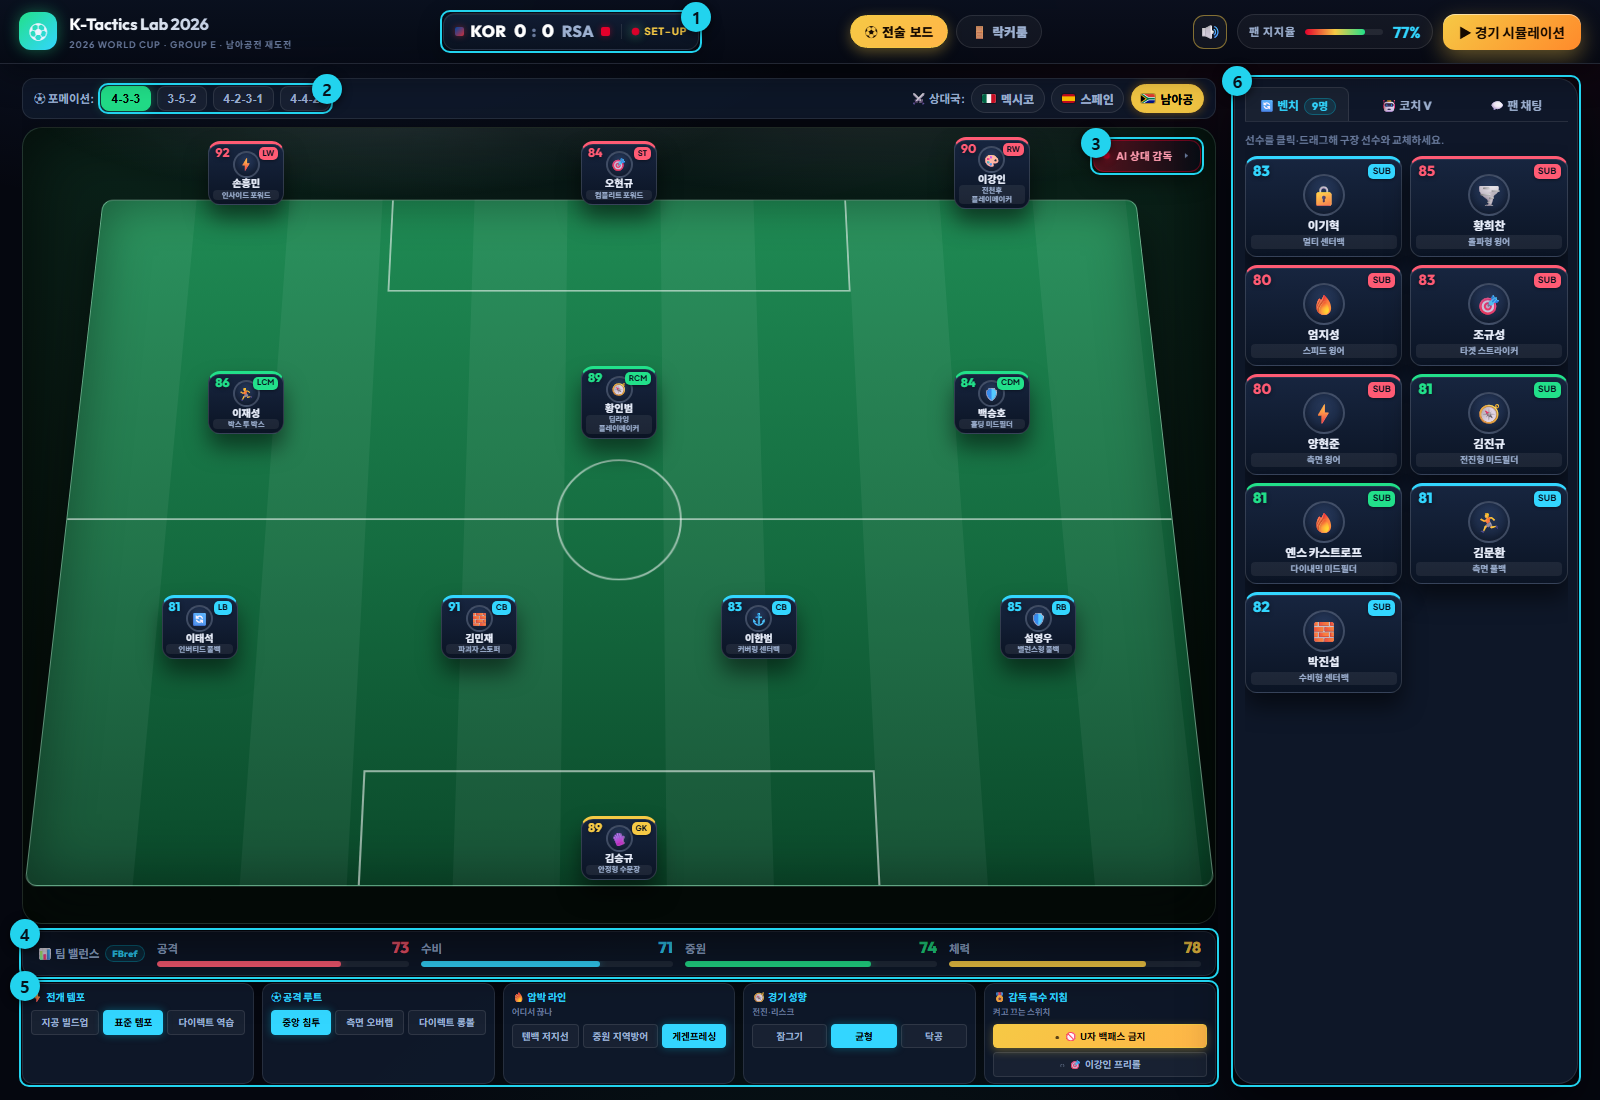
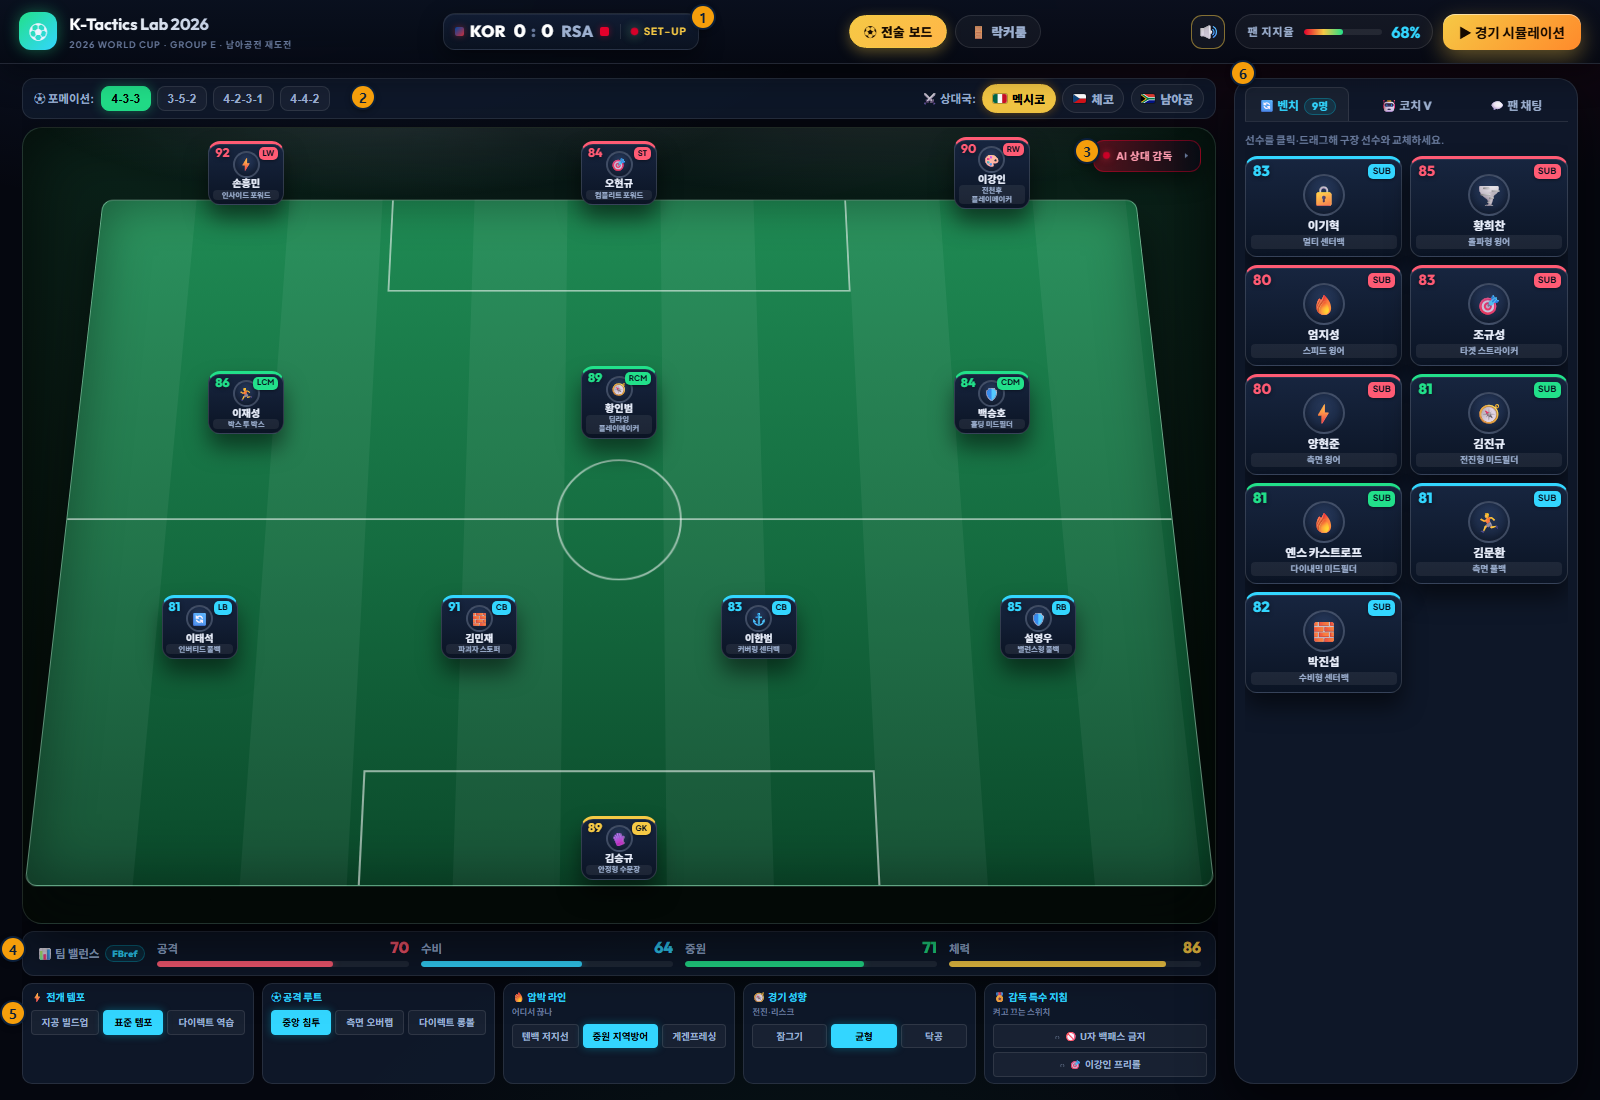
docs(proposal): match brief and reshoot Spain view
Checked the proposal against the competition brief.

The board screenshot was committed on 07-24, before the opponent list
was corrected, so it still showed 스페인 while 3.1 directly beneath it said
체코. Reshot from the current build with the scenario auto-started (the
onboarding modal covers the board) and the six region badges the caption
points at, so the figure and the text finally agree.

"본 서비스는 PC 환경 전용으로 설계했습니다" sat in the sixth line of a document whose
first judging round is a public vote, and the rule says the service must
run in major browsers. index.css carries seven breakpoints and a
purpose-built notice under 768px, so the claim understated the app while
arguing against a requirement. Dropped; the recommended environment line
stays.

The brief also requires that a judge verify external APIs without a key.
5.7 said the proxy hides the key, which implies it but never states it.
Now stated, because an unverifiable feature can be excluded from
scoring.

Per request: section 7 starts on its own page, its APA note is gone, and
English glosses are out of the headings. Also 압박 강도 → 압박 라인, the label
the dial actually carries on screen.

Filed as B″: the app has no 3-4-3, which is the formation the brief's
own opening names and the one Korea actually played against South
Africa.

diff --git a/PROPOSAL.md b/PROPOSAL.md
@@ -3,11 +3,11 @@
 **서비스명: K-Tactics Lab 2026**
 **부제: 2026 월드컵 대한민국 국가대표팀 전술 솔루션 및 인터랙티브 감독 시뮬레이터**
 **공식 라이브 데모 URL (Live Demo):** https://k-tactics-lab-2026.vercel.app
-**권장 환경:** 데스크톱 Chrome 브라우저, 가로 1280px 이상 (본 서비스는 PC 환경 전용으로 설계했습니다)
+**권장 환경:** 데스크톱 Chrome 브라우저, 가로 1280px 이상
 
 ---
 
-## 1. 서비스 개요 (Service Overview)
+## 1. 서비스 개요
 
 ### 1.1 기획 배경 및 문제 정의 (언론 및 전술 분석 데이터 기반)
 
@@ -35,26 +35,26 @@
 
 ---
 
-## 2. "감독 경험" 설계 의도 (Design Intent of "Manager Experience")
+## 2. "감독 경험" 설계 의도
 
 ### 2.1 설계 원칙: 개입 지점을 둘로 좁힌다
 
 목표는 **"전술적 선택과 스쿼드 배치가 팀 밸런스와 대중 여론에 어떤 상충을 만드는가"** 를 감독석에서 겪게 하는 것입니다. 그래서 경기를 분 단위로 쪼개지 않았습니다. 감독이 개입하는 지점은 **킥오프 전 한 번, 하프타임 한 번** 뿐입니다. 결정이 잘게 흩어지면 무엇이 승부를 갈랐는지 알 수 없고, 되돌리고 싶은 지점도 특정되지 않기 때문입니다. 아래 3대 국면은 그 두 순간에 무엇을 결정할 수 있는지를 나눈 것입니다.
 
-### 2.2 3대 경기 국면(Game Phases)별 전술 지휘 체험
+### 2.2 3대 경기 국면별 전술 지휘 체험
 
-사용자는 전술판 위에서 언론 보도를 통해 도출된 대표팀의 핵심 전술 쟁점을 3대 경기 국면으로 나누어, **4대 전술 다이얼(전개 템포·공격 루트·압박 강도·경기 성향), 감독 특수 지침 토글 2종, 하프타임 교체 예약** 으로 지휘합니다.
+사용자는 전술판 위에서 언론 보도를 통해 도출된 대표팀의 핵심 전술 쟁점을 3대 경기 국면으로 나누어, **4대 전술 다이얼(전개 템포·공격 루트·압박 라인·경기 성향), 감독 특수 지침 토글 2종, 하프타임 교체 예약** 으로 지휘합니다.
 
 1. **국면 ①: 공격 전개 및 빌드업 지침 (U자형 빌드업 타파)**
    - **설계 의도:** '공격 루트' 다이얼(하프스페이스 중앙 침투 / 측면 오버랩 / 다이렉트 롱볼)로 공격 경로를 정하고, 별도의 **'감독 특수 지침' 토글 2종(🚫 U자 백패스 금지, 🎯 이강인 프리롤)** 으로 시그니처 개혁을 켜고 끕니다. 백패스 금지와 하프스페이스 침투는 공격 지표와 여론을 함께 올리지만, 이강인 프리롤은 화력과 뒷공간 리스크를 같이 얻습니다. '전개 템포'(지공 빌드업 / 표준 / 다이렉트 역습)로 공격 전개 속도까지 함께 조율합니다.
 2. **국면 ②: 측면 수비 및 경기 운영 밸런스 (윙백 뒷공간 차단)**
-   - **설계 의도:** '압박 강도'(텐백 저지선 / 중원 지역방어 / 게겐프레싱)와 '경기 성향'(잠그기 / 균형 / 닥공) 다이얼로 수비 안정과 위험 감수의 상충을 조율합니다. 게겐프레싱은 수비 +7과 여론 +6을 얻는 대신 체력 −8을 치르고, 텐백은 상대 기대 득점을 25% 깎는 대신 공격 −8과 여론 −12를 함께 치릅니다. 어느 쪽도 한쪽만 움직이지 않습니다.
+   - **설계 의도:** '압박 라인'(텐백 저지선 / 중원 지역방어 / 게겐프레싱)와 '경기 성향'(잠그기 / 균형 / 닥공) 다이얼로 수비 안정과 위험 감수의 상충을 조율합니다. 게겐프레싱은 수비 +7과 여론 +6을 얻는 대신 체력 −8을 치르고, 텐백은 상대 기대 득점을 25% 깎는 대신 공격 −8과 여론 −12를 함께 치릅니다. 어느 쪽도 한쪽만 움직이지 않습니다.
 3. **국면 ③: 후반 플랜 B 및 위기관리 (스타 개인 기량 의존 탈피)**
    - **설계 의도:** 전반이 끝나야 열리는 국면입니다. 방전된 선수를 눈으로 확인한 뒤에야 **[⏱ 60분 조커 투입]** 과 **[⏱ 75분 닥공 전환]** 을 예약할 수 있고, 예약한 교체는 후반 평균 체력을 실제로 끌어올려 기대 득점에 반영됩니다(§4.4). 표기된 분(分)은 중계 연출이며 후반은 한 번에 표집합니다. 스타 한 명의 기량에 기대는 대신 플랜 B를 미리 설계해 두는 자리이고, **경기 중** 교체가 열리는 국면은 여기뿐입니다.
 
 ---
 
-## 3. 페이지 구성 및 UI 레이아웃 (Page Structure)
+## 3. 페이지 구성 및 UI 레이아웃
 
 전술 설정·피드백·시뮬레이션을 한 화면에 모은 **'매치데이 브로드캐스트 보드'** 단일 레이아웃입니다. 중계 화면의 문법(스코어버그, 선수 카드)을 빌려 **경기장을 화면의 주인공**으로 두고, 보조 정보는 우측 3탭 레일과 접이식 칩으로 밀어냈습니다.
 
@@ -82,9 +82,9 @@
 
 ---
 
-## 4. 핵심 인터랙션 명세 (Core Interaction Specs)
+## 4. 핵심 인터랙션 명세
 
-### 4.1 인터랙션 A: 이원화 스쿼드 배치 및 교체 (Hybrid Squad Builder)
+### 4.1 인터랙션 A: 이원화 스쿼드 배치 및 교체
 
 - **두 갈래 입력, 같은 결과:** 드래그 앤 드롭(HTML5 Drag & Drop API)과 클릭 맞교환(Click-to-Swap)이 동일한 교체 로직 위에 얹혀 있습니다. 클릭 경로는 트랙패드처럼 드래그가 번거로운 장치를 위한 보조이자, 드래그가 중간에 끊겨도 교체가 막히지 않게 하는 안전장치입니다.
 - **두 경로는 화면에서 구분됩니다.** 드래그 중인 카드와 클릭으로 고른 카드가 서로 반대로 표시되어, 지금 어느 방식으로 조작 중인지 보입니다.
@@ -95,7 +95,7 @@
 - **반응:** AI 코치 긴급 경보가 뜨고 여론 지지율이 즉시 깎입니다. 공격 자원을 최후방·골문에 두면 **−25**, 골키퍼를 최전방에 두면 **−30** 이며 두 판정은 별개라, 공격수와 골키퍼를 맞바꾸면 한 번에 **−55** 가 붙습니다. 40% 미만으로 떨어지면 붉은 경고 상태로 전환되고 중계창에 비판 댓글이 올라옵니다.
 - **누적되지 않습니다.** 현재 배치를 볼 때마다 다시 계산하므로 제자리로 되돌리면 그 자리에서 회복됩니다. 판정 기준이 이름이 아니라 포지션 속성이라, 손흥민이 아닌 어느 공격 자원을 내려도 똑같이 걸립니다.
 
-### 4.3 인터랙션 C: 클릭 기반 선수 세부 임무(Role) 설정
+### 4.3 인터랙션 C: 클릭 기반 선수 세부 임무 설정
 
 - **동작:** 카드를 한 번 클릭하면 맞교환 대상이 되고, 한 번 더 클릭하면 임무 모달이 열립니다. 카드 하나에 두 기능을 겹쳐 두어 별도의 설정 버튼이 없습니다. 포지션 대분류에 맞는 3~5개 임무(인사이드 포워드, 딥라잉 플레이메이커, 커버링 센터백 등)가 FBref 능력치와 함께 제시됩니다.
 - **모든 임무가 상충입니다.** 좌측 풀백 이태석을 '인버티드 풀백'에서 '오버래핑 가담'으로 바꾸면 **공격 +2, 수비 −1, 중원 −2**. 전원을 공격 임무로 도배해도 공격은 최대 +10에 그치는 대신 수비 −8, 중원 −7을 지불합니다. 무한정 강해지는 경로는 없습니다(계산식 §5.2).
@@ -119,7 +119,7 @@
 
 ---
 
-## 5. 데이터 활용 방식 및 알고리즘 (Data Usage & Simulation Logic)
+## 5. 데이터 활용 방식 및 알고리즘
 
 본 서비스의 데이터는 **"승패를 만드는 수치는 전부 앱 안에 고정하고, 판단만 LLM에 맡긴다"** 는 역할 분리 원칙 위에 설계되었습니다. 결과는 예측 AI가 아니라 FBref 스탯에서 유도한 규칙 기반 확률 모델(로컬 Poisson 몬테카를로)이 산출하고, LLM은 Coach V의 조언과 AI 상대 감독의 전술 선택을 맡습니다.
 
@@ -129,7 +129,7 @@
 
 ▲ 이 절 전체의 지도입니다. FBref 원천 기록이 능력치로, 능력치가 화면과 확률로 갈라지는 경로를 보여줍니다. 읽을 때 두 가지만 보시면 됩니다. **초록 가지와 파란 줄기가 갈라지는 지점**이 5.2에서 설명하는 두 층의 분리이고(위는 감독이 읽는 가산 층, 아래는 승패를 정하는 곱셈 층), **주황 상자가 하나뿐이라는 것**이 LLM이 개입하는 자리가 전체에서 한 군데임을 뜻합니다.
 
-### 5.1 FBref 원천 지표 → 4대 능력치 변환식 (Metric Conversion)
+### 5.1 FBref 원천 지표 → 4대 능력치 변환식
 
 2026 월드컵 본선에 실제 출전한 20인의 FBref 경기 기록(Standard / Shooting / Misc)을 오프라인 스크립트(`scripts/parse_stats.py`)로 파싱하여, 포지션 기준선(Base)에 per-90 지표를 가산하는 방식으로 4대 능력치를 산출합니다. 출전 시간이 짧은 선수는 가중치 `w = min(1, 출전90분환산 / k)`(공격·중원 k=2, 수비 k=1.5)로 지표 영향을 감쇠시켜, 31분만 뛴 선수의 슈팅 빈도가 풀타임 선수와 동급으로 취급되는 소표본 왜곡을 막습니다. 수집 스코프의 완전성은 출전 시간 합산 검산(20인 합 2,970분 = 3경기 × 11명 × 90분)으로, 산출물의 재현성은 스크립트 재실행 시 커밋 데이터와의 diff-zero로 각각 검증했습니다.
 
@@ -142,7 +142,7 @@
 
 **20인 80개 능력치 중 수동 보정은 김민재의 수비 한 곳뿐입니다.** 공식대로면 81인데 **90** 으로 올렸습니다. 인터셉트·태클을 세는 지표는 상대가 아예 그쪽을 피해 간 경우를 낮은 수비력으로 읽기 때문입니다. 보정은 `scripts/parse_stats.py` 의 `override_def` 한 줄로 남아 있어 어느 값이 손을 탔는지 추적되며, 나머지 79개는 전부 공식 산출값입니다.
 
-### 5.2 실시간 팀 밸런스 스탯 연산 (Squad Balance Aggregation)
+### 5.2 실시간 팀 밸런스 스탯 연산
 
 **감독이 무언가를 건드리면 피치 아래 막대 4개가 즉시 움직입니다.** 이 막대가 서비스의 성적표이고, 아래 식은 그 막대가 어떻게 정해지는지를 그대로 적은 것입니다. 선발 11인의 평균 능력치에 포메이션 성향, 4대 전술 다이얼, 선수별 세부 임무를 더한 뒤 30~100으로 자릅니다.
 
@@ -227,7 +227,7 @@ $$\lambda_{\text{KOR}} = 0.72 \times \frac{\text{공격}}{\text{상대 수비}} 
 - **왜 포아송인가:** 독립 Poisson 득점 모델은 Maher(1982)·Dixon-Coles(1997) 이래 축구 통계의 표준입니다. Elo는 팀을 단일 강도 값으로 압축해 전술 다이얼이 들어갈 자리가 없고, 계수를 추정하는 모델은 본선 3경기로 표본이 부족합니다.
 - **1,000회인 이유:** 표집 오차가 화면에 찍히는 정수 퍼센트 한 칸 수준(보드에 따라 ±1.1~1.3%p)으로 내려오는 지점이고, 10,000회로 늘려도 정수로 반올림하면 차이가 대부분 사라집니다. 표집기에 편향이 없다는 것은 해석적으로 계산한 승률 **12.03%** 와 20만 회 표집값 **12.01%** 를 대조해 확인했습니다(`scripts/validate_model.js`).
 
-### 5.4 설명 가능성(XAI): 승부 요인 분해 (Factor Attribution)
+### 5.4 설명 가능성(XAI): 승부 요인 분해
 
 **경기가 끝나면 "왜 졌는지"가 골 단위로 나옵니다.** 결과 카드의 **'⚡ 승부 요인 TOP 3'** 가 이번 경기에서 가장 크게 작용한 세 요인을 해설위원식 문장과 수치로 보여줍니다. 예를 들어 "▲ 게겐프레싱이 상대 빌드업을 질식시켰다 (+0.10골)", "▼ 후반 체력 방전이 발목을 잡았다 (−0.14골)"입니다.
 
@@ -239,7 +239,7 @@ $$\Delta_f = \lambda_{\text{KOR}}\Big(1 - \tfrac{1}{m_{f,\text{KOR}}}\Big) - \la
 - **더 보고 싶으면 펼칩니다.** 접이식 **'📐 상세 분석'** 표가 기본 전력 λ(FBref)부터 요인별 배수(×1.18 등), 최종 λ까지 전 체인을 공개합니다.
 - **정직한 경계:** 다이얼 배수는 데이터에서 추정한 계수가 아니라 **게임 밸런스 설계값**입니다. XAI 패널은 그 설계값을 감추지 않고 유저에게 그대로 보여주는 장치이며, 시뮬레이션 수식은 그대로 두고 계측만 추가했으므로 승패 연산과 완전히 일치합니다.
 
-### 5.5 대중 여론 지지도(Vibe Score) 연동 메커니즘
+### 5.5 대중 여론 지지도 연동 메커니즘
 
 여론 지지도는 기본값 55에서 시작하며 경기 승패와 완전히 독립된 2차 지표입니다. **현재 보드 상태의 순수 함수(pure function)** 로 매번 재계산되므로 같은 세팅은 항상 같은 점수를 내고, 비정상 배치를 고치면 페널티도 즉시 사라집니다(인위적 누적·랫칫 없음). 포메이션·다이얼·상대 상성·라인업 정합성·주장 벤치 여부가 합산되어 최종 값이 **15~98** 로 제한됩니다.
 
@@ -266,11 +266,11 @@ $$\text{Vibe} = \text{clip}\Big(55 + \Delta\text{Formation} + \sum\Delta\text{Di
 
 ### 5.7 AI 레이어: Coach V & AI 상대 감독 (멀티 프로바이더 LLM 체인)
 
-Coach V 채팅·사전 분석과 AI 상대 감독의 카운터 전술 결정만 실제 LLM을 사용하며, Vercel 서버리스 프록시(`api/coach.js`)가 API 키를 서버에 은닉합니다. `callLLM()` 체인은 **Groq gpt-oss-120b → Google Gemini 3.1 Flash-Lite** 순으로 시도하고, 키가 없는 프로바이더는 건너뛰며, 전부 실패하면 클라이언트가 스크립트 폴백으로 무중단 응답합니다. AI 상대 감독은 구조화 JSON(포메이션·4대 다이얼·근거)으로 응답하되, 클라이언트가 허용된 enum 값인지 검증(`isValidOpponentPlan`)한 뒤에만 시뮬레이션에 반영합니다.
+Coach V 채팅·사전 분석과 AI 상대 감독의 카운터 전술 결정만 실제 LLM을 사용합니다. 키는 Vercel 서버리스 프록시(`api/coach.js`)의 환경변수에만 있으므로, **심사자는 별도 키 발급이나 로그인 없이 배포 URL에서 그대로 확인할 수 있습니다.** `callLLM()` 체인은 **Groq gpt-oss-120b → Google Gemini 3.1 Flash-Lite** 순으로 시도하고, 키가 없는 프로바이더는 건너뛰며, 전부 실패하면 클라이언트가 스크립트 폴백으로 무중단 응답합니다. AI 상대 감독은 구조화 JSON(포메이션·4대 다이얼·근거)으로 응답하되, 클라이언트가 허용된 enum 값인지 검증(`isValidOpponentPlan`)한 뒤에만 시뮬레이션에 반영합니다.
 
 ---
 
-## 6. 주요 사용 흐름 (Main User Flow - Journey Map)
+## 6. 주요 사용 흐름
 
 ![감독의 결단과 즉시 돌아오는 반응으로 구성된 6단계 사용 흐름](docs/img/proposal-journey-map.png)
 
@@ -282,9 +282,9 @@ Coach V 채팅·사전 분석과 AI 상대 감독의 카운터 전술 결정만 
 
 ---
 
-## 7. 참고 문헌 및 언론 출처 (References & Media Citations)
+<div style="break-before: page"></div>
 
-본문 내 인용과 아래 목록은 미국심리학회(APA 7th Edition) 양식을 따릅니다. 각 보도가 어느 쟁점의 근거인지는 1.1의 본문 인용 위치로 확인할 수 있습니다.
+## 7. 참고 문헌 및 언론 출처
 
 Financial News. (2026a, June 25). *"Too poor to be true" Hong Myung-bo's team, 0-1 crushing defeat to South Africa: Crisis of elimination*. https://www.fnnews.com/news/202606251312188929
 
